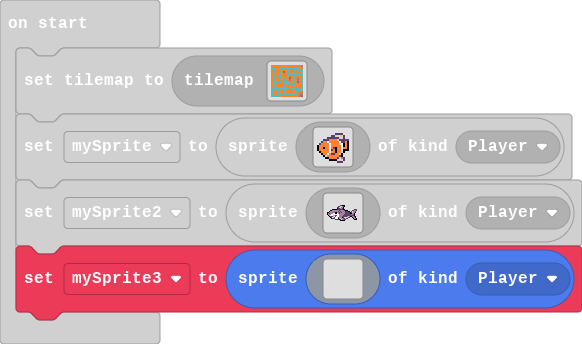
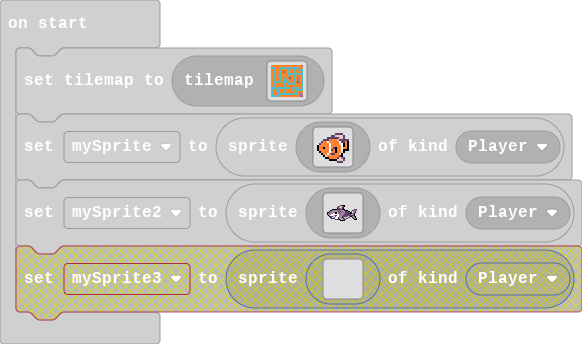
test

Changed region(s): [[0.0, 0.6977, 1.0, 0.9302]]

diff --git a/main.ts b/main.ts
@@ -35,21 +35,3 @@ let mySprite2 = sprites.create(img`
     ........ccccfcdbbcc........fff..
     .............fffff..............
     `, SpriteKind.Player)
-let mySprite3 = sprites.create(img`
-    . . . . . . . . . . . . . . . . 
-    . . . . . . . . . . . . . . . . 
-    . . . . . . . . . . . . . . . . 
-    . . . . . . . . . . . . . . . . 
-    . . . . . . . . . . . . . . . . 
-    . . . . . . . . . . . . . . . . 
-    . . . . . . . . . . . . . . . . 
-    . . . . . . . . . . . . . . . . 
-    . . . . . . . . . . . . . . . . 
-    . . . . . . . . . . . . . . . . 
-    . . . . . . . . . . . . . . . . 
-    . . . . . . . . . . . . . . . . 
-    . . . . . . . . . . . . . . . . 
-    . . . . . . . . . . . . . . . . 
-    . . . . . . . . . . . . . . . . 
-    . . . . . . . . . . . . . . . . 
-    `, SpriteKind.Player)
